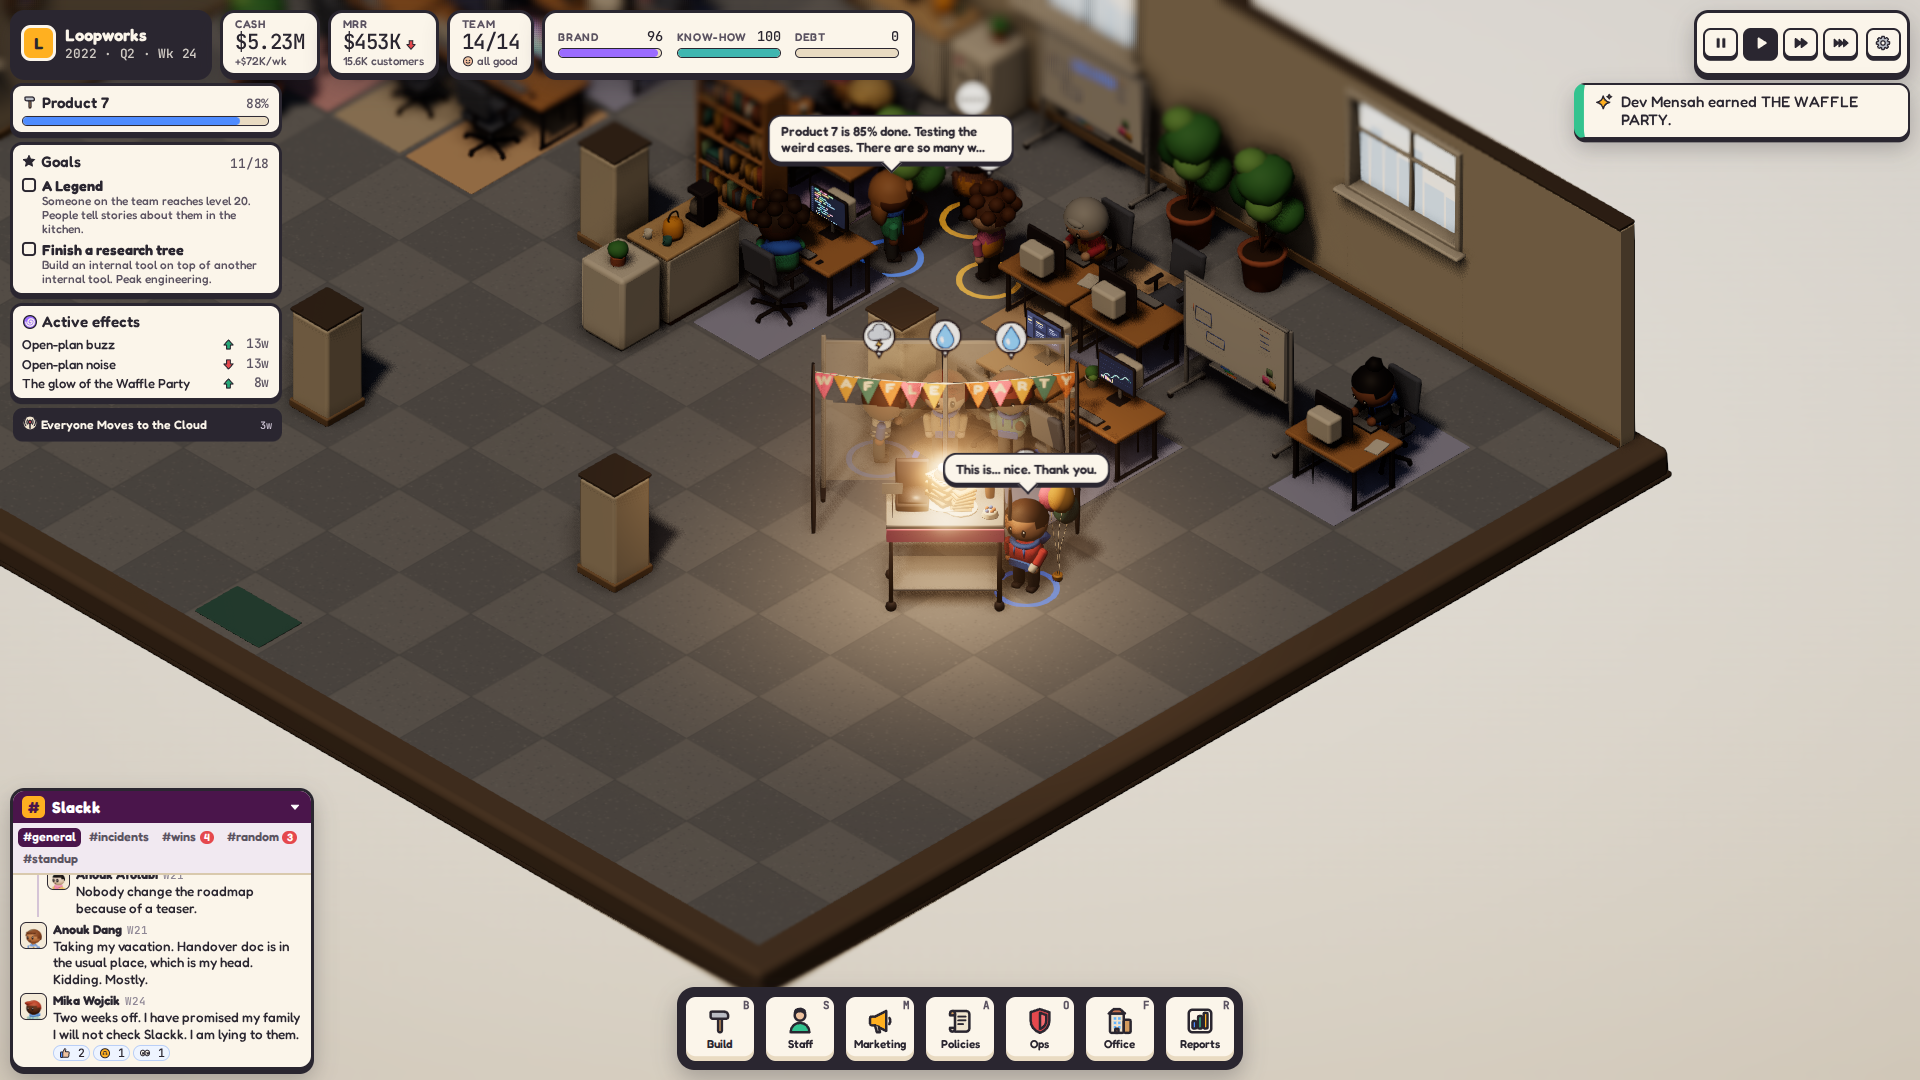
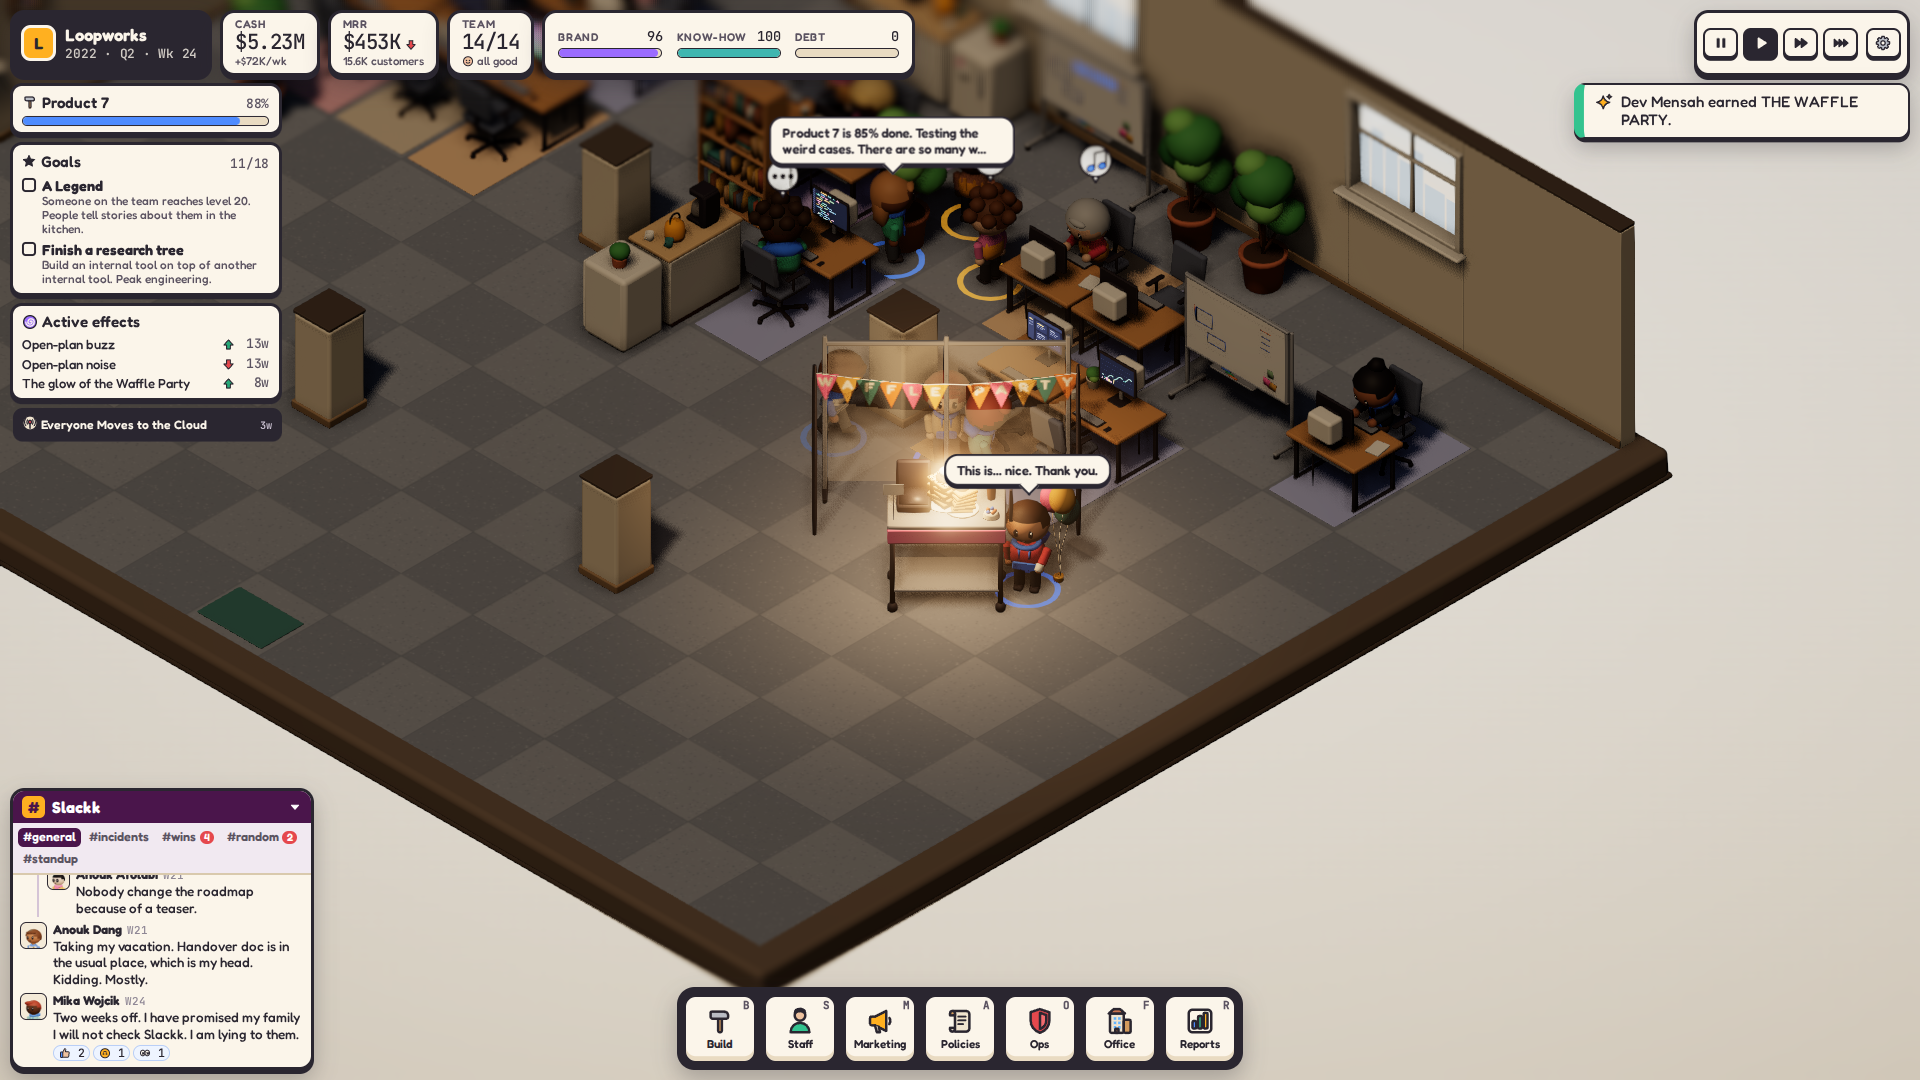
docs(readme): take the Waffle Party still before the watchers' envy shows

diff --git a/scripts/capture-manifest.js b/scripts/capture-manifest.js
@@ -374,8 +374,9 @@ export const ITEMS = [
     actions: DISMISS_EVERY(6), screenshots: [6],
   },
   {
+    // Shot as the winner speaks, before the watchers behind the glass start their envy emotes.
     id: 'readme-waffle', group: 'readme', title: 'The Waffle Party in a real game', query: 'seed=1&speed=1', still: true,
-    setup: WAFFLE_SETUP, actions: WAFFLE_ACTIONS(15), screenshots: [14],
+    setup: WAFFLE_SETUP, actions: WAFFLE_ACTIONS(13), screenshots: [12.75],
   },
   {
     id: 'readme-loop', group: 'readme', title: 'The office in motion (loop)', query: 'seed=1&speed=1&time=day', seconds: 7, warmup: 6, hideUi: true,
